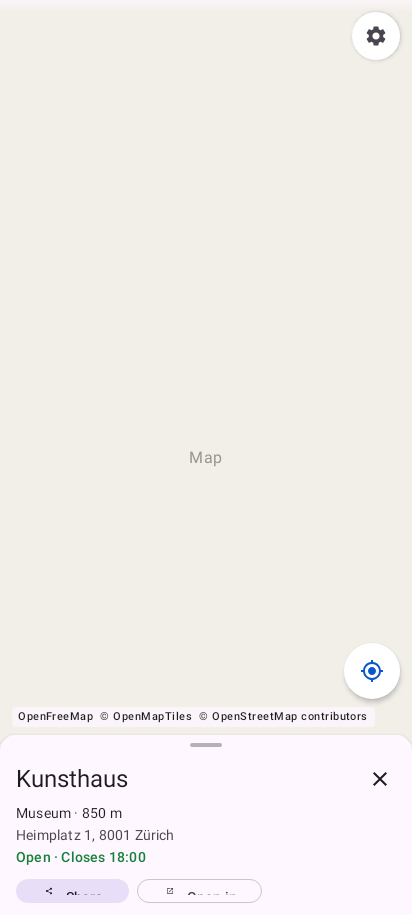
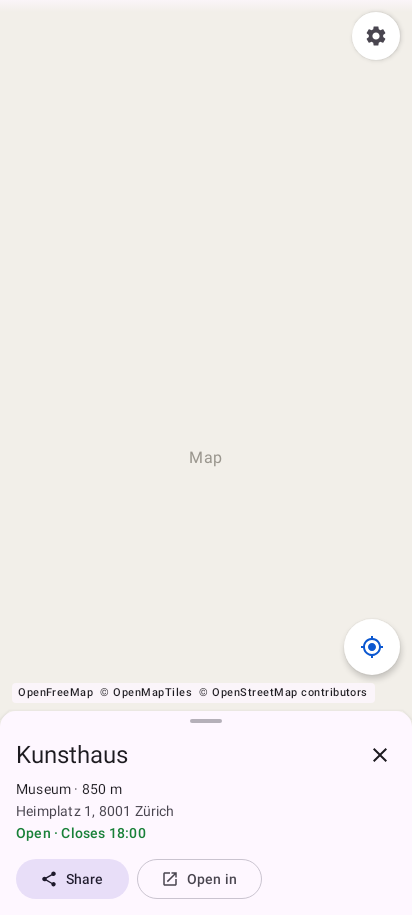
fix(place): the place sheet's lowest height shows the whole header
The peek stop is set from the header's measured height, but the header was
measured inside the sheet, which starts at a 180 dp fallback, so it never
reported more than that: the actions row was squeezed to 24 dp at the normal
font size and the opening hours and actions were cut at a large one. The
header is now measured at its own height.

PlaceSheetPeekTest checks the Share button is whole and on screen at font
scale 1 and 2 (fails 2/2 before) and above a system bar; one large-font peek
screenshot added, the peek screenshot re-recorded.

diff --git a/androidApp/src/test/kotlin/to/pubky/maps/android/PlaceSheetPeekTest.kt b/androidApp/src/test/kotlin/to/pubky/maps/android/PlaceSheetPeekTest.kt
@@ -1,0 +1,159 @@
+package to.pubky.maps.android
+
+import androidx.compose.foundation.layout.Box
+import androidx.compose.foundation.layout.fillMaxSize
+import androidx.compose.material3.ButtonDefaults
+import androidx.compose.runtime.CompositionLocalProvider
+import androidx.compose.ui.Alignment
+import androidx.compose.ui.Modifier
+import androidx.compose.ui.platform.LocalDensity
+import androidx.compose.ui.test.getUnclippedBoundsInRoot
+import androidx.compose.ui.test.hasClickAction
+import androidx.compose.ui.test.hasText
+import androidx.compose.ui.test.junit4.createComposeRule
+import androidx.compose.ui.test.onRoot
+import androidx.compose.ui.unit.Density
+import androidx.compose.ui.unit.Dp
+import androidx.compose.ui.unit.dp
+import kotlinx.datetime.LocalDate
+import kotlinx.datetime.LocalDateTime
+import kotlinx.datetime.LocalTime
+import kotlinx.datetime.TimeZone
+import org.junit.Assert.assertTrue
+import org.junit.Rule
+import org.junit.Test
+import org.junit.runner.RunWith
+import org.robolectric.RobolectricTestRunner
+import org.robolectric.annotation.Config
+import org.robolectric.annotation.GraphicsMode
+import to.pubky.maps.links.GeoPoint
+import to.pubky.maps.links.OsmId
+import to.pubky.maps.links.OsmType
+import to.pubky.maps.place.PlaceCardInfo
+import to.pubky.maps.place.PlacePageActions
+import to.pubky.maps.place.PlacePageContext
+import to.pubky.maps.place.PlacePageState
+import to.pubky.maps.place.PlaceRef
+import to.pubky.maps.place.PlaceSheet
+import to.pubky.maps.place.PlaceSource
+import to.pubky.maps.place.SheetStop
+import to.pubky.maps.ui.PubkyMapsTheme
+
+/**
+ * At its lowest height the phone place sheet shows its whole header: name, kind, address, opening
+ * hours and the row of actions, at the normal font size and at twice it (every size doubled, stricter
+ * than Android's largest setting, which grows big text less), also above a system bar, as Google
+ * Maps' and CoMaps' collapsed place cards do. Native graphics, so text is measured with real fonts.
+ */
+@RunWith(RobolectricTestRunner::class)
+@GraphicsMode(GraphicsMode.Mode.NATIVE)
+@Config(qualifiers = "w412dp-h915dp-notnight-mdpi")
+class PlaceSheetPeekTest {
+    @get:Rule
+    val compose = createComposeRule()
+
+    private val context =
+        PlacePageContext(
+            now = LocalDateTime(LocalDate.parse("2026-11-25"), LocalTime(12, 0)),
+            nowMillis = 1_795_608_000_000,
+            timeZone = TimeZone.UTC,
+            language = "en",
+            distance = "850 m",
+        )
+
+    private val place =
+        PlaceRef(
+            uri = "https://www.openstreetmap.org/relation/3768127",
+            name = "Kunsthaus",
+            point = GeoPoint(47.3702241, 8.5479797),
+            osm = OsmId(OsmType.Relation, 3768127),
+            source = PlaceSource.Pinakes,
+            address = "Heimplatz 1, 8001 Zürich",
+            category = "Museum",
+        )
+
+    private val page =
+        PlacePageState(
+            place = place,
+            card =
+                PlaceCardInfo(
+                    id = "49d6eb1c6a69946a41fe45ccd44c4a72",
+                    uri = place.uri,
+                    name = "Kunsthaus",
+                    type = "Museum",
+                    category = "tourism/museum",
+                    address = "Heimplatz 1, 8001 Zürich",
+                    lat = 47.3702241,
+                    lon = 8.5479797,
+                    description = null,
+                    image = null,
+                    credits = emptyList(),
+                    attribution = null,
+                    alsoOn = emptyList(),
+                    refs = listOf(place.uri),
+                    collections = 0,
+                    facts = mapOf("opening_hours" to "Tu-Su 10:00-18:00"),
+                ),
+            loading = emptySet(),
+        )
+
+    private val actions =
+        PlacePageActions(onClose = {}, onShare = {}, openIn = emptyList(), onOpenIn = {}, onOpenLink = {}, onLoadMorePosts = {})
+
+    private fun showAtPeek(
+        fontScale: Float,
+        bottomInset: Dp = 0.dp,
+    ) {
+        compose.setContent {
+            val density = LocalDensity.current
+            CompositionLocalProvider(LocalDensity provides Density(density.density, fontScale)) {
+                PubkyMapsTheme {
+                    Box(Modifier.fillMaxSize()) {
+                        PlaceSheet(
+                            page,
+                            context,
+                            actions,
+                            SheetStop.Peek,
+                            {},
+                            maxHeight = 800.dp,
+                            modifier = Modifier.align(Alignment.BottomCenter),
+                            bottomInset = bottomInset,
+                        )
+                    }
+                }
+            }
+        }
+        compose.waitForIdle()
+    }
+
+    /**
+     * The row of actions, the header's last line, is laid out whole on the screen: the Share button
+     * has its full height (a sheet too short squeezes it, down to nothing) and ends above the
+     * [bottomInset] at the bottom of the screen.
+     */
+    private fun assertHeaderShown(bottomInset: Dp = 0.dp) {
+        val bottom = compose.onRoot().getUnclippedBoundsInRoot().bottom - bottomInset
+        val share = compose.onNode(hasText("Share") and hasClickAction()).getUnclippedBoundsInRoot()
+        val height = share.bottom - share.top
+        assertTrue("the Share button is $height tall", height >= ButtonDefaults.MinHeight)
+        assertTrue("the Share button ends at ${share.bottom}, the sheet at $bottom", share.bottom <= bottom)
+    }
+
+    @Test
+    fun theWholeHeaderShowsAtTheNormalFontSize() {
+        showAtPeek(fontScale = 1f)
+        assertHeaderShown()
+    }
+
+    @Test
+    fun theWholeHeaderShowsAtTwiceTheFontSize() {
+        showAtPeek(fontScale = 2f)
+        assertHeaderShown()
+    }
+
+    @Test
+    fun theWholeHeaderShowsAboveTheSystemBar() {
+        showAtPeek(fontScale = 2f, bottomInset = 48.dp)
+        assertHeaderShown(bottomInset = 48.dp)
+    }
+}

diff --git a/androidApp/src/test/kotlin/to/pubky/maps/android/PlaceScreenshotTest.kt b/androidApp/src/test/kotlin/to/pubky/maps/android/PlaceScreenshotTest.kt
@@ -16,6 +16,7 @@ import androidx.compose.ui.graphics.Color
 import com.github.takahirom.roborazzi.ExperimentalRoborazziApi
 import com.github.takahirom.roborazzi.RoborazziComposeOptions
 import com.github.takahirom.roborazzi.captureRoboImage
+import com.github.takahirom.roborazzi.fontScale
 import com.github.takahirom.roborazzi.size
 import com.github.takahirom.roborazzi.uiMode
 import kotlinx.datetime.LocalDate
@@ -82,15 +83,18 @@ class PlaceScreenshotTest {
         device: Device,
         dark: Boolean,
         imagesFail: Boolean = false,
+        largeFont: Boolean = false,
         content: @Composable () -> Unit,
     ) {
         val theme = if (dark) "dark" else "light"
+        val variant = if (largeFont) "-large-font" else ""
         captureRoboImage(
-            filePath = "screenshots/$name-${device.name.lowercase()}-$theme.png",
+            filePath = "screenshots/$name$variant-${device.name.lowercase()}-$theme.png",
             roborazziComposeOptions =
                 RoborazziComposeOptions {
                     size(widthDp = device.widthDp, heightDp = device.heightDp)
                     uiMode(if (dark) Configuration.UI_MODE_NIGHT_YES else Configuration.UI_MODE_NIGHT_NO)
+                    if (largeFont) fontScale(2f)
                 },
         ) {
             PubkyMapsTheme {
@@ -327,6 +331,10 @@ class PlaceScreenshotTest {
 
     @Test
     fun richPeekPhoneLight() = capture("place-rich-peek", Device.Phone, dark = false) { Page(rich, SheetStop.Peek) }
+
+    @Test
+    fun richPeekLargeFontPhoneLight() =
+        capture("place-rich-peek", Device.Phone, dark = false, largeFont = true) { Page(rich, SheetStop.Peek) }
 
     @Test
     fun sparsePhoneLight() = capture("place-sparse", Device.Phone, dark = false) { Page(sparse) }

diff --git a/shared/src/commonMain/kotlin/to/pubky/maps/place/PlaceSheet.kt b/shared/src/commonMain/kotlin/to/pubky/maps/place/PlaceSheet.kt
@@ -159,6 +159,9 @@ fun PlaceSheet(
         Column(Modifier.fillMaxSize()) {
             Column(
                 Modifier
+                    // Measured at its own height, not the sheet's: the peek is set from this size, so a
+                    // header measured inside a shorter sheet would keep the peek too short to show it.
+                    .wrapContentHeight(Alignment.Top, unbounded = true)
                     .draggable(
                         state = dragState,
                         orientation = Orientation.Vertical,
